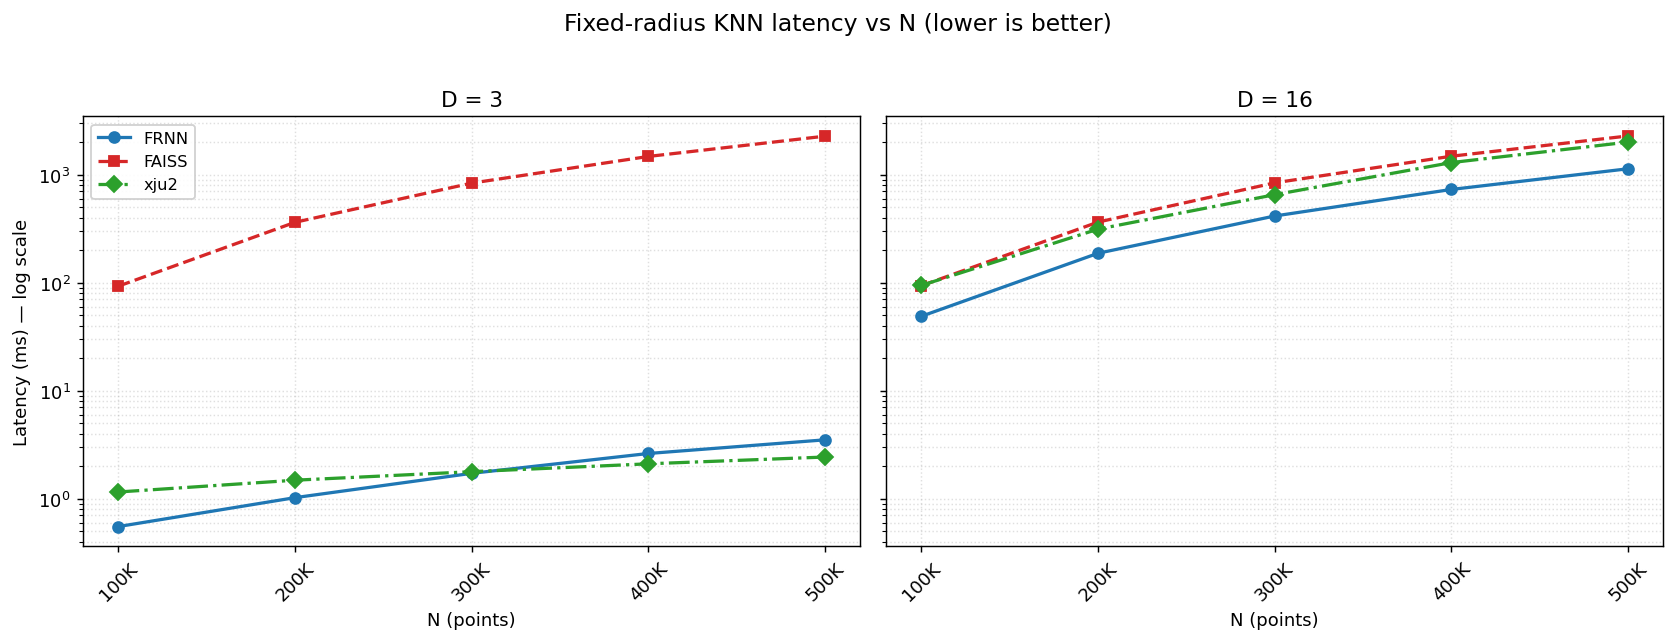
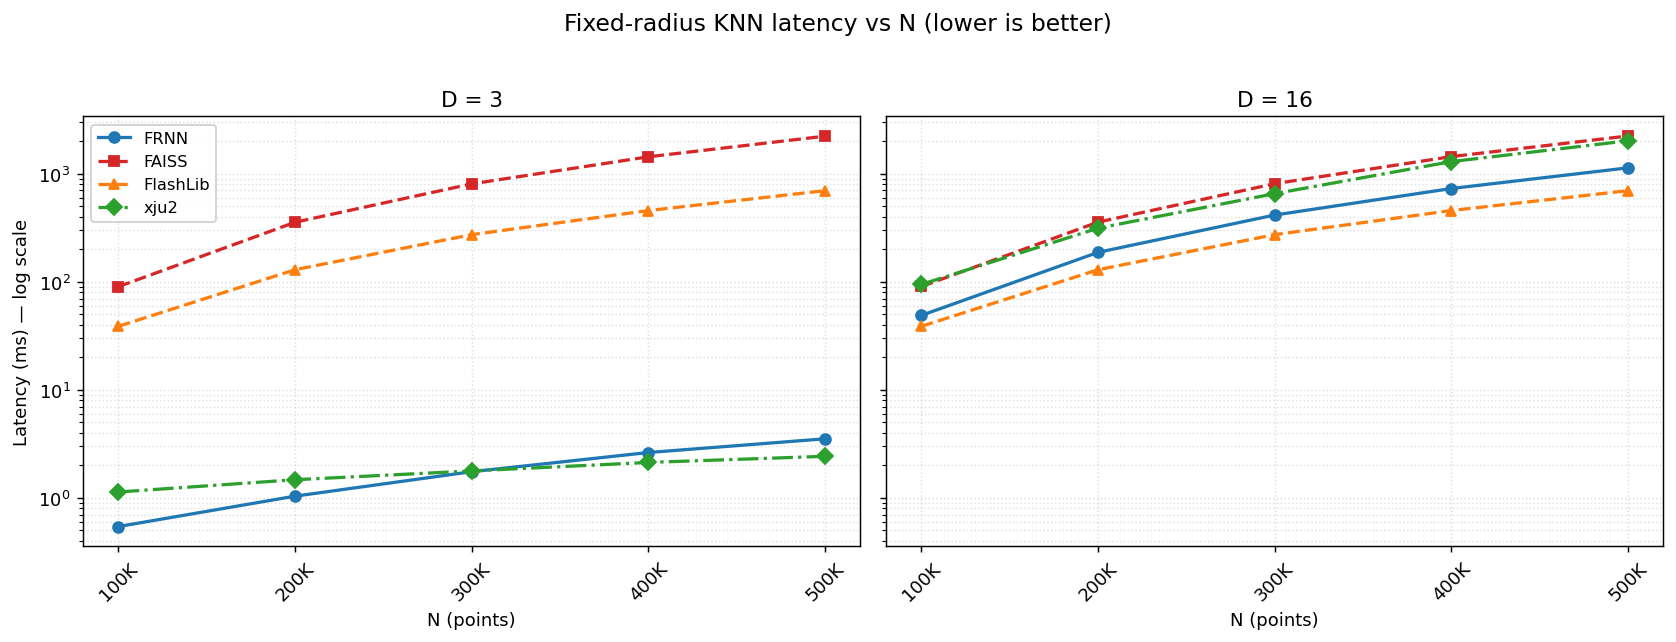
Made it so that FAISS does not do and H2D work during the GPU timings

diff --git a/Tests/benchmark_master.py b/Tests/benchmark_master.py
@@ -104,26 +104,32 @@ def run_frnn_cupy(pts_cp, N, D, R):
 def run_baselines(pts_np, D, R):
     out = {}
 
-    # FAISS GPU — uses numpy directly for add/search; no PyTorch needed.
+    # FAISS GPU — queries pre-transferred to GPU so H2D copy is outside the
+    # timed loop, matching the same footing as FRNN/FlashLib/xju2.
     try:
         import faiss
+        import faiss.contrib.torch_utils
+        import torch
         cpu_idx = faiss.IndexFlatL2(D)
         gpu_res = faiss.StandardGpuResources()
         idx = faiss.index_cpu_to_gpu(gpu_res, 0, cpu_idx)
         idx.add(pts_np)
-        out["faiss_ms"] = timed_gpu(lambda: idx.search(pts_np, K))
+        pts_t = torch.tensor(pts_np).cuda()
+        out["faiss_ms"] = timed_gpu(lambda: idx.search(pts_t, K))
+        del pts_t
     except Exception as e:
         out["faiss_ms"] = None
         print(f"    [FAISS] {e}")
     cp.get_default_memory_pool().free_all_blocks()
 
-    # FlashLib — attempt with CuPy array (DLPack interop). Falls back to None
-    # if FlashLib requires PyTorch tensors.
+    # FlashLib — requires PyTorch tensors internally; pre-transfer to GPU so
+    # H2D copy is outside the timed loop, matching FRNN/FAISS footing.
     try:
         from flashlib import flash_knn
-        pts_cp = cp.asarray(pts_np)
-        out["flash_ms"] = timed_gpu(lambda: flash_knn(pts_cp, pts_cp, K))
-        del pts_cp
+        import torch
+        pts_t = torch.tensor(pts_np).cuda()
+        out["flash_ms"] = timed_gpu(lambda: flash_knn(pts_t, pts_t, K))
+        del pts_t
     except Exception as e:
         out["flash_ms"] = None
         print(f"    [FlashLib] {e}")

diff --git a/README.md b/README.md
@@ -20,12 +20,11 @@ Engine hard limits: `K ≤ 128`, `D ≤ 128`, `ceil(1/R)^D ≤ 1,000,000`.
 |---|---|
 | Machine | Perlmutter (NERSC) |
 | GPU | NVIDIA A100 (`sm_80`) |
-| Module | `pytorch/2.8.0` → Python 3.12, CUDA 12.9 (torch used only at build time and for xju2 baseline) |
-| Runtime | `cupy-cuda12x`, `faiss-gpu`, `pynvml` — **no PyTorch required at runtime** |
+| Module | `pytorch/2.8.0` → Python 3.12, CUDA 12.9 (torch used only for FAISS and xju2 baselines) |
+| Runtime | `cupy-cuda12x`, `faiss-gpu`, `nvidia-ml-py` — **no PyTorch required for the FRNN engine** |
 
 > The `frnn_cuda` extension (pure pybind11, no torch) is the primary engine interface.
-> `frnn_torch` (torch extension) is only needed for the optional xju2 baseline.
-> **Rebuild `frnn_torch` whenever you switch the `pytorch` module.**
+> PyTorch is only needed at runtime for the FAISS and xju2 baseline blocks in `benchmark_master.py`.
 
 ---
 
@@ -48,30 +47,20 @@ benchmarks. (Change `-A m3443` to your own allocation if different.)
 ```bash
 module load pytorch/2.8.0
 cd /global/u1/d/dratnam/FRNN-master
+export LD_LIBRARY_PATH=$(python3 -c "import torch, os; print(os.path.join(os.path.dirname(torch.__file__), 'lib'))"):$LD_LIBRARY_PATH
 ```
 
 Install runtime packages once (login node has outbound network; compute node does not):
 
 ```bash
-pip install --user cupy-cuda12x faiss-gpu pynvml
+pip install --user cupy-cuda12x faiss-gpu nvidia-ml-py
 ```
 
-## 3. Build the FRNN PyTorch wrapper (`frnn_torch`)
+## 3. Verify the engine loads
 
 `frnn_cuda` (the primary engine) is already compiled and present in the repo root as
 `frnn_cuda.cpython-312-*.so`. It is a pure pybind11 extension with no PyTorch dependency —
 **no rebuild needed unless `python_interface/frnn_engine.cu` or `frnn_engine.h` changes.**
-
-`frnn_torch` is a secondary PyTorch-based wrapper used only by the xju2 baseline. Build it
-when you first set up or after switching the `pytorch` module:
-
-```bash
-rm -rf build frnn_torch*.so
-python3 setup_frnn_torch.py build_ext --inplace
-export LD_LIBRARY_PATH=$(python3 -c "import torch, os; print(os.path.join(os.path.dirname(torch.__file__), 'lib'))"):$LD_LIBRARY_PATH
-```
-
-Verify both extensions load:
 
 ```bash
 python3 -c "import frnn_cuda; from frnn_cupy import FRNNCuPy; import cupy as cp; print('OK')"
@@ -140,6 +129,9 @@ zero host↔device copies. AoS→SoA transpose is done on the GPU; results are r
 `(N, K)` CuPy arrays. The projection two-stage path (PCA→3D candidate search→full-D verify)
 engages automatically when the top-3 principal components capture ≥ 90% of variance.
 
+All baselines are timed on GPU-resident data (no H2D copies in the timed loop): FRNN and
+FlashLib use CuPy arrays; FAISS and xju2 use pre-transferred CUDA tensors.
+
 ## 5b. Run the benchmark on low-rank data (projection path)
 
 Set `LOWRANK=<intrinsic_dim>` to generate points near a low-dimensional manifold embedded in
@@ -181,25 +173,6 @@ brute-force oracle, and matches xju2 wherever the answer is unambiguous). On den
 (>K points in radius) FRNN returns the nearest K while xju2 returns any K — a semantic
 difference the check accounts for, not a bug.
 
-## 7. Hyperparameter & Kernel Optimization via SkyDiscover (AdaEvolve)
-
-This repository includes a machine-learning-driven optimization pipeline utilizing SkyDiscover's **AdaEvolve (Adaptive Evolution)** algorithm. It uses a Large Language Model (LLM) feedback loop to automatically mutate, compile, and benchmark low-level CUDA code inside `frnn/csrc/grid/find_nbrs.cu` to maximize A100 GPU occupancy, fix warp divergence, and optimize memory coalescing.
-
-### Prerequisites
-
-The optimization driver requires `openai`, `pyyaml`, `tqdm`, and `python-dotenv`. Install them along with the SkyDiscover submodule directly on a login node:
-
-```bash
-# From Perlmutter login node:
-module load pytorch/2.8.0
-pip install --user openai python-dotenv pyyaml tqdm
-pip install --user -e skydiscover/skydiscover
-
-export LD_LIBRARY_PATH=$(python3 -c "import torch; import os; print(os.path.join(os.path.dirname(torch.__file__), 'lib'))"):$LD_LIBRARY_PATH
-
-OPENAI_API_KEY="sk-..." PYTHONPATH=. python3 discover_frnn_opts.py --iterations 50
-```
-
 ---
 
 ## Outputs
@@ -217,14 +190,12 @@ OPENAI_API_KEY="sk-..." PYTHONPATH=. python3 discover_frnn_opts.py --iterations 
 ```
 python_interface/
   frnn_engine.cu/.h    # pure pybind11 engine (CPU + raw-device-ptr GPU search paths)
-  frnn_torch.cu        # PyTorch/CUDA wrapper (xju2 baseline only; not the primary interface)
 frnn/csrc/
   grid/                # insert_points.cu, find_nbrs.cu — uniform-grid kernels (SoA)
   no_grid_frnn/        # no_grid_frnn.cu — float4-vectorized tiled brute-force (SoA)
   projection/          # project.cu (PCA->3D), verify.cu (fused full-D verify)
 frnn_cupy.py              # CuPy interface to frnn_cuda: zero-copy search() + search_projected()
 projection_frnn.py        # two-stage projection dispatcher (pure CuPy, no torch)
-setup_frnn_torch.py       # builds frnn_torch (PyTorch wrapper, xju2 baseline only)
 Tests/
   benchmark_master.py     # the sweep (FRNN vs FAISS vs FlashLib vs xju2)
   validate_correctness.py # FRNN vs xju2 vs float64 brute-force oracle
@@ -236,10 +207,7 @@ flash_lib_knn/         # FlashLib (FlashML) baseline — git clone + pip install
 
 ## Rebuild triggers
 
-Rebuild `frnn_torch` (step 3) and the xju2 extensions (step 4) when you:
-
-- switch the `pytorch` module (different torch/Python ABI), or
-- edit `.cu` / `.h` files under `frnn_torch.cu` that affect the PyTorch wrapper.
+Rebuild the xju2 extensions (step 4) when you switch the `pytorch` module (different torch/Python ABI).
 
 Rebuild `frnn_cuda` (the primary engine) when you edit:
 
